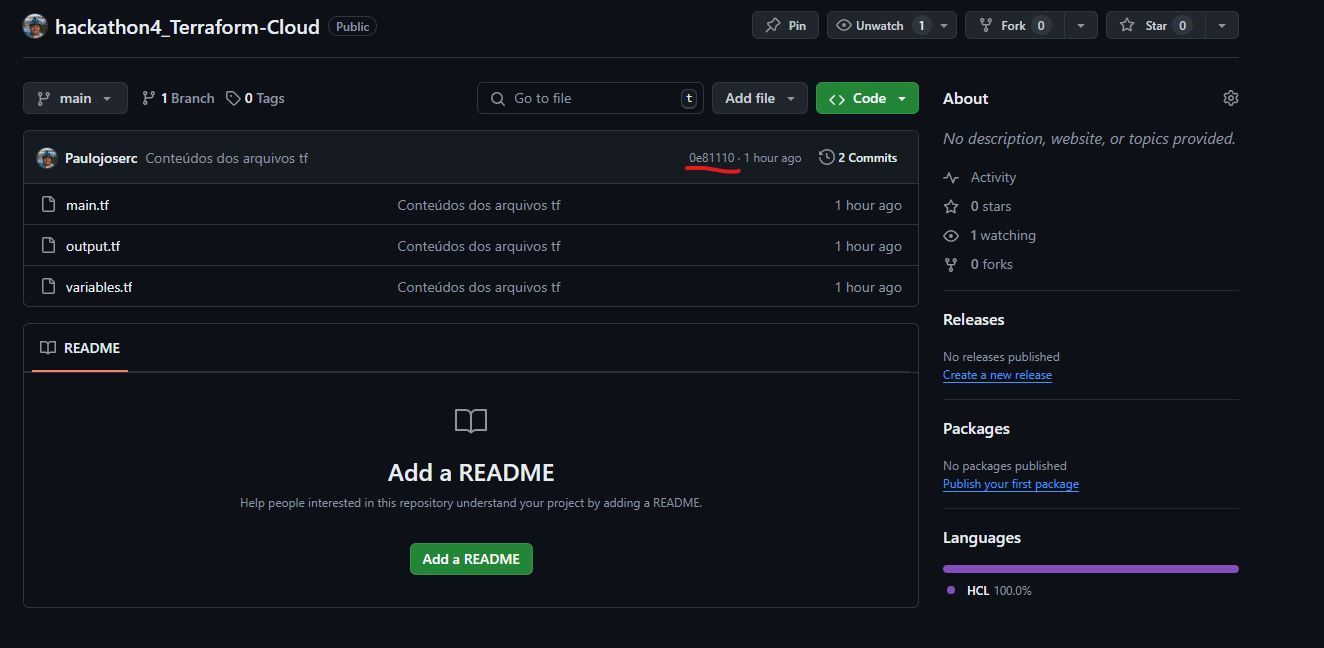
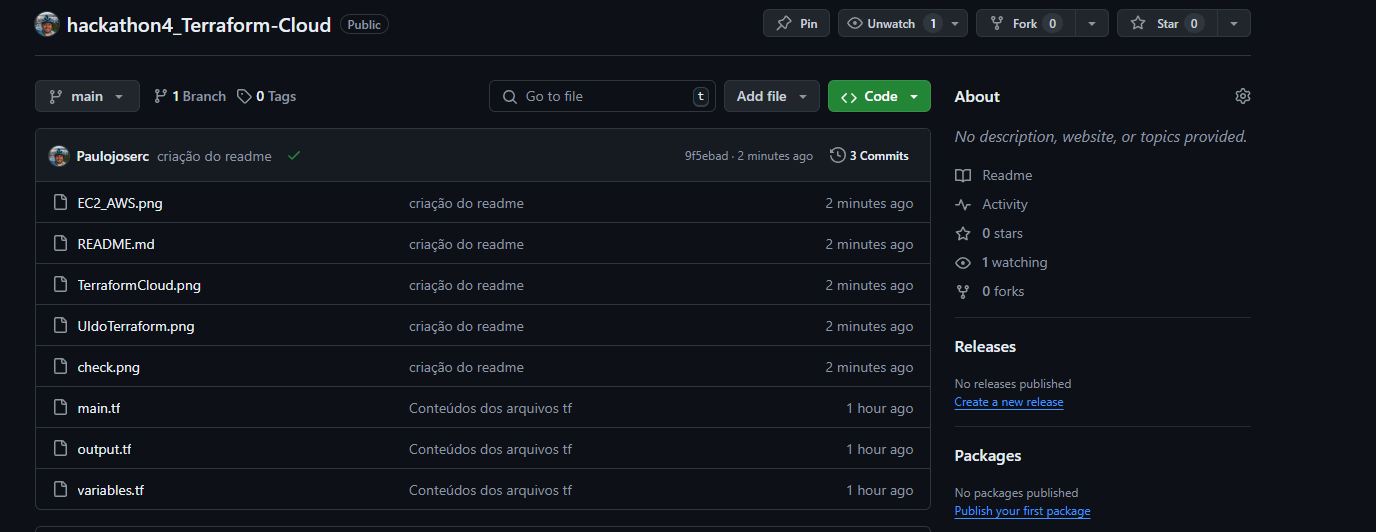
imagem do check

diff --git a/README.md b/README.md
@@ -14,10 +14,7 @@ Este repositório todos os passos que foram utilizados para integração dos ter
     
 - Prints mostrando a execução do EC2 na AWS.
   ![](EC2_AWS.png)
-  
-- Print UI do terraform igual do repositorio do github.
-  ![](UIdoTerraform.png)
- 
-- Print commit 0e81110.
+
+- Print do check.
   ![](check.png)
  
